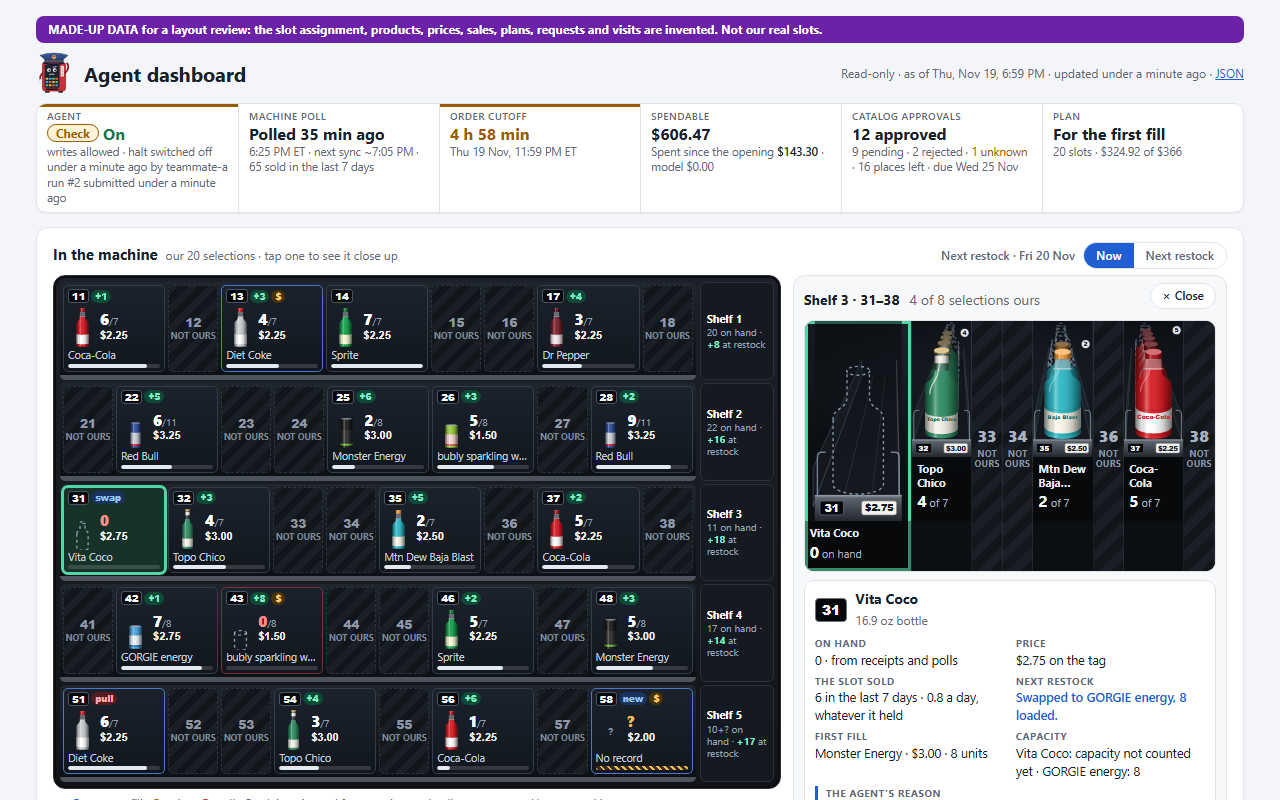
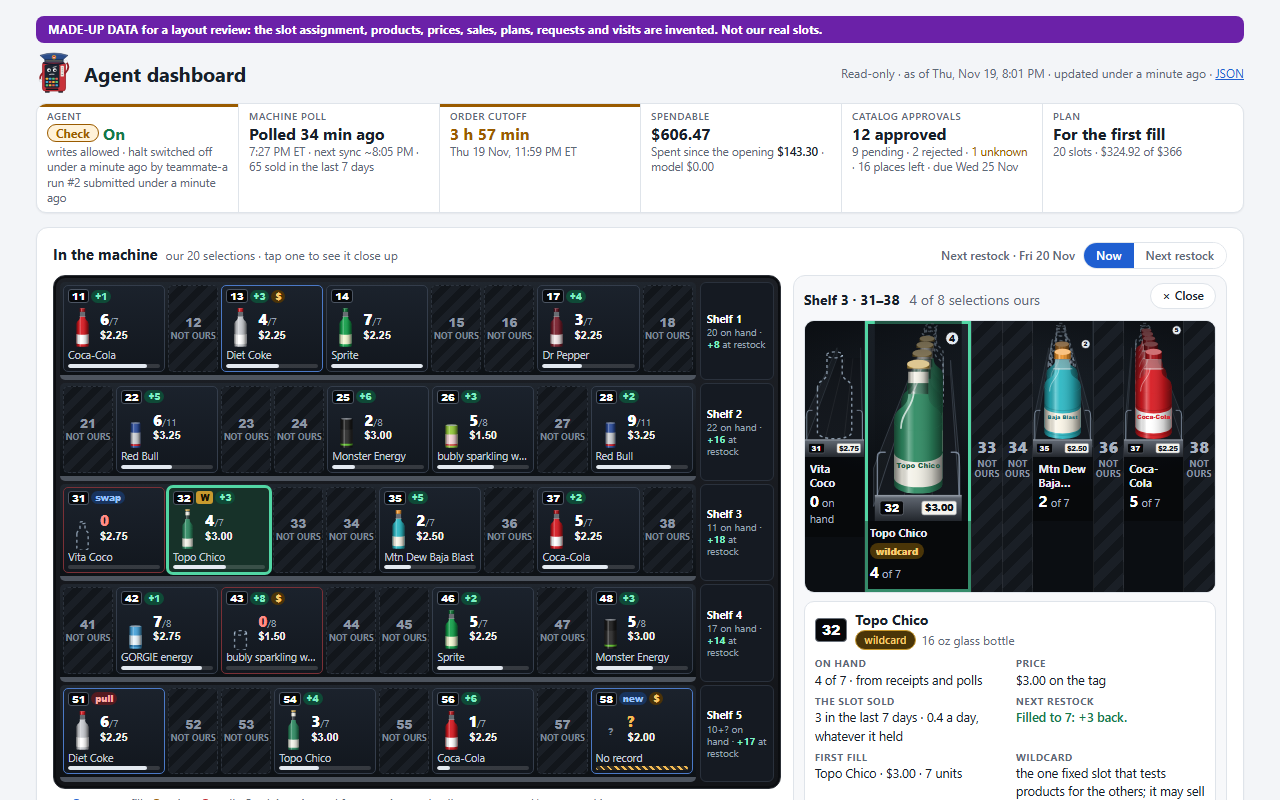
Dashboard: mark the wildcard slot in the machine view and the plan rows
dashboard didn't show it. The snapshot now reads it and keeps it only
when the stored assignment makes it ours, so a wildcard that isn't ours
is never marked. Ours shows a W badge on the front, a "wildcard" chip on
its lane, a pill and a Wildcard line in its facts, and a pill on its rows
in the plan's changes and The plan. The aria label says it too. Docs and
the doc pictures (made-up, with a made-up wildcard) updated.

diff --git a/vending/dashboard.py b/vending/dashboard.py
@@ -112,6 +112,8 @@ SYNC_AT_MINUTE = 5
 APPROVALS_DUE = datetime(2026, 11, 26, 5, 0, tzinfo=timezone.utc)
 # The machine's face: 5 shelves of 8 selections. Row r, column c is selection "rc".
 SHELVES, COLUMNS = machine_art.SHELVES, machine_art.COLUMNS
+# The mark on the wildcard slot's rows (#166): the one fixed slot that tests products.
+WILD = machine_art.WILD_PILL
 # What a free-text product name says about its package, for a lane named by a count.
 _package = machine_art.package_from_name
 
@@ -265,6 +267,14 @@ def _our_slots(conn: psycopg.Connection) -> dict:
         return {"ok": False, "why": f"{error}. Run `python -m vending.db migrate` on this database."}
     except SlotsNotRecorded as error:
         return {"ok": False, "why": str(error)}
+
+
+def _wildcard(conn: psycopg.Connection, ours: tuple[str, ...]) -> str | None:
+    """The wildcard slot (config `wildcard_slot`, set once, #166), when it is one of ours; else None.
+    A wildcard the stored assignment doesn't give us is never marked."""
+    row = _optional(conn, "select value from config where key = 'wildcard_slot'")
+    value = row["value"] if row else None
+    return value if isinstance(value, str) and value in ours else None
 
 
 def our_selections(snap: dict) -> tuple[str, ...]:
@@ -837,6 +847,7 @@ def _snapshot(conn: psycopg.Connection, now: datetime) -> tuple[dict, datetime |
     snap = {
         "as_of": now,
         "ours": ours,
+        "wildcard": _wildcard(conn, slots),
         "status": _status(conn, now, live_since),
         "plan": _panel(lambda: _plan(conn, slots, now, assignment_at)),
         "runs": _panel(lambda: _runs(conn, now, _tags(conn, now), slots)),
@@ -1293,7 +1304,7 @@ def machine_view(snap: dict) -> dict:
                           else ["dropped"])
                 change = {"labels": labels, "kind": _change_kind(labels), "reason": (entry or {}).get("reason")}
         out[slot] = {"now": now, "next": nxt, "change": change, "fill_to": _fill(entry),
-                     "reason": (entry or {}).get("reason")}
+                     "reason": (entry or {}).get("reason"), "wildcard": slot == snap.get("wildcard")}
     return out
 
 
@@ -1331,7 +1342,9 @@ def _changes_html(snap: dict, view: dict) -> str:
         else:
             title += f' <span class="hint">{"picked plan" if p["picked"] else "latest, not picked"}</span>'
             rows = "".join(
-                "<li>" + _pick(row["slot"], f'<b>{_e(row["slot"])}</b><span>{_e(row["product"] or "no product")} '
+                "<li>" + _pick(row["slot"], f'<b>{_e(row["slot"])}</b><span>'
+                                            + (f"{WILD} " if row["slot"] == snap.get("wildcard") else "")
+                                            + f'{_e(row["product"] or "no product")} '
                                             f'&middot; {plan_rounds.format_cents(row["price_cents"])} &middot; '
                                             f'{_plural(row["units"], "unit")}</span>', view) + "</li>"
                 for row in p["slots"])
@@ -1352,6 +1365,7 @@ def _changes_html(snap: dict, view: dict) -> str:
                   for s in p["slots"] if s["changed"] and s["slot"] not in view]
         rows = "".join(
             "<li>" + _pick(slot, f'<span class="dotk {c["kind"]}"></span><b>{_e(slot)}</b><span>{_e(", ".join(c["labels"]))}'
+                                 + (f" {WILD}" if slot == snap.get("wildcard") else "")
                                  + (f'<span class="why">{_e(c["reason"])}</span>' if c["reason"] else "") + "</span>",
                            view) + "</li>"
             for slot, c in items)
@@ -1441,12 +1455,14 @@ def _cabinet_html(snap: dict, items: list[dict] | None = None) -> str:
             f'<div class="ops-side">{home}{panel}</div></div>{scrim}</section>')
 
 
-def _slot_num(slot: str) -> str:
-    """A plan row's slot number. One on the machine's face is a link that picks it in the close-up."""
+def _slot_num(slot: str, wildcard: str | None = None) -> str:
+    """A plan row's slot number. One on the machine's face is a link that picks it in the close-up;
+    the wildcard's says so."""
+    mark = f" {WILD}" if slot == wildcard else ""
     if re.fullmatch(rf"[1-{SHELVES}][1-{COLUMNS}]", slot):
         return (f'<a class="num" href="#sel-{_e(slot)}" data-sel="{_e(slot)}" '
-                f'aria-label="Selection {_e(slot)}: show it in the machine">{_e(slot)}</a>')
-    return f'<b class="num">{_e(slot)}</b>'
+                f'aria-label="Selection {_e(slot)}: show it in the machine">{_e(slot)}</a>{mark}')
+    return f'<b class="num">{_e(slot)}</b>{mark}'
 
 
 def _fill_check_html(check: str, reason: str | None) -> str:
@@ -1456,7 +1472,7 @@ def _fill_check_html(check: str, reason: str | None) -> str:
 
 
 def _plan_cell(s: dict, compared: bool, sold: dict | None, held: dict | None,
-               window: str = "the window") -> str:
+               window: str = "the window", wildcard: str | None = None) -> str:
     """One slot of the plan as a <details>: what it asks for in the summary; the reason, what it was
     and what the slot holds and sold inside."""
     slot, entry, changed = s["slot"], s["now"], compared and s["changed"]
@@ -1503,7 +1519,7 @@ def _plan_cell(s: dict, compared: bool, sold: dict | None, held: dict | None,
     if on_hand is not None:
         now_bits.append(f"{on_hand} left")
     return (f'<details class="pc{" changed" if changed else ""}" id="slot-{_e(slot)}" data-key="slot-{_e(slot)}">'
-            f'<summary>{_slot_num(slot)}<span class="now">{" &middot; ".join(now_bits)}</span>'
+            f'<summary>{_slot_num(slot, wildcard)}<span class="now">{" &middot; ".join(now_bits)}</span>'
             f'<span class="what">{what}</span><span class="tags">{tags}</span></summary>{"".join(body)}</details>')
 
 
@@ -1542,14 +1558,15 @@ def _plan_html(snap: dict) -> str:
         controls = (f'<div class="chips">{chips}</div>'
                     '<label class="only" hidden><input type="checkbox" id="changed-only"> '
                     'Show changed slots only</label>')
-    cells = "".join(_plan_cell(s, bool(p["previous_run"]), sold.get(s["slot"]), held.get(s["slot"]), _window(sales))
+    cells = "".join(_plan_cell(s, bool(p["previous_run"]), sold.get(s["slot"]), held.get(s["slot"]), _window(sales),
+                               snap.get("wildcard"))
                     for s in p["slots"])
     columns = ('<div class="plan-head" aria-hidden="true"><span>Slot</span><span>Now</span>'
                '<span>Next restock</span><span></span></div>')
     return head + controls + f'<div class="plan-grid" data-only="false">{columns}{cells}</div>'
 
 
-def _first_fill_cell(row: dict) -> str:
+def _first_fill_cell(row: dict, wildcard: str | None = None) -> str:
     slot, checks = row["slot"], row["checks"]
     check, reason = row.get("fill_check"), row["reason"]
     fill_note = _fill_check_html(check, reason) if check else ""
@@ -1567,7 +1584,7 @@ def _first_fill_cell(row: dict) -> str:
                 price, f"Capacity {cap}", f"Fill cost share {cost}"]
     problems = "".join(f'<div class="sub">{_e(reason)}</div>' for reason in checks["refusals"])
     return (f'<details class="pc" id="slot-{_e(slot)}" data-key="slot-{_e(slot)}">'
-            f'<summary>{_slot_num(slot)}<span class="what">{_e(row["product"])}'
+            f'<summary>{_slot_num(slot, wildcard)}<span class="what">{_e(row["product"])}'
             f' &middot; {plan_rounds.format_cents(row["price_cents"])}'
             f' &middot; {_plural(row["units"], "unit")}{fill_note}</span></summary>{reason_detail}'
             f'<div class="was"><span class="label">Code checks</span>'
@@ -1598,7 +1615,7 @@ def _plan_section(snap: dict) -> str:
             cost = (f"{plan_rounds.format_cents(expected)} expected, {plan_rounds.format_cents(maximum)} at most"
                     if expected is not None and maximum is not None else "unknown")
             hint += f" &middot; Fill cost {cost} against the proposed {cap} cap"
-            cells = "".join(_first_fill_cell(row) for row in p["slots"])
+            cells = "".join(_first_fill_cell(row, snap.get("wildcard")) for row in p["slots"])
             body = f'<div class="plan-grid first-fill">{cells}</div>'
     return ('<section id="plan"><h2>Plan for the first fill (stocked ~30 Nov) '
             f'<span class="hint">{hint}</span></h2>{body}</section>')
@@ -2217,6 +2234,7 @@ details.more > summary { cursor:pointer; color:var(--muted); font-size:12px; mar
 .vm-legend { font-size:12px; color:var(--muted) } .vm-legend p { margin:6px 0 0 }
 .vm-legend > summary .dotk { margin-left:6px } .vm-legend .honest { margin:0 } .vm-legend .more { text-decoration:underline }
 .pc summary a.num { font-weight:700; color:var(--accent) }
+.pill.wild { background:#4a3508; color:#f8cd75; border:1px solid #c99a2e } a.chg .pill.wild { margin-left:4px } .sd-t .pill.wild { margin-right:6px }
 /* The plan: one line per slot; the reason opens beneath. */
 .only { display:inline-flex; gap:6px; align-items:center; font-size:12px; margin:4px 0 8px; cursor:pointer }
 .only[hidden] { display:none }

diff --git a/vending/machine_art.py b/vending/machine_art.py
@@ -38,6 +38,9 @@ from typing import Any
 from vending import capacity, config
 
 SHELVES, COLUMNS = 5, 8
+# The mark on the wildcard slot (#166, config `wildcard_slot`): the one fixed slot that tests products.
+WILD_TITLE = "The wildcard: the one fixed slot that tests products and may sell above the regular ceiling"
+WILD_PILL = f'<span class="pill wild" title="{WILD_TITLE}">wildcard</span>'
 
 # --- Package shapes -------------------------------------------------------------------------------
 # d = body diameter (or width), h = overall height, in mm. Bottles add body, shoulder, neck and
@@ -489,6 +492,7 @@ class Lane:
     def __init__(self, slot: str, view: dict, products: dict | None):
         now, nxt = view["now"], view["next"]
         self.slot, self.view, self.change = slot, view, view.get("change")
+        self.wildcard = bool(view.get("wildcard"))
         self.shelf, self.col = (int(slot[0]), int(slot[1])) if len(slot) == 2 and slot.isdigit() else (0, 0)
         self.source = now["source"]
         self.counted = self.source in ("photo", "door")
@@ -541,7 +545,7 @@ class Lane:
         return f"<b>{shown}</b>{tail}"
 
     def aria(self) -> str:
-        parts = [f"Selection {self.slot}"]
+        parts = [f"Selection {self.slot}" + (", the wildcard" if self.wildcard else "")]
         item = self.now_item
         if self.counted_empty:
             parts.append("counted empty")
@@ -836,10 +840,11 @@ def lane_card(lane: Lane, prev: str | None, nxt_slot: str | None, linked: bool) 
                + (f'<a href="#lane-{_e(nxt_slot)}" data-lane="{_e(nxt_slot)}" aria-label="Next lane, selection '
                   f'{_e(nxt_slot)}">&rsaquo;</a>' if nxt_slot else '<span></span>') + '</div>')
     plan_link = (f'<a class="ma-plan" href="#slot-{_e(lane.slot)}">plan row</a>' if linked else "")
-    classes = ["ma-lane"] + (["ma-changed"] if lane.change else [])
+    classes = ["ma-lane"] + (["ma-changed"] if lane.change else []) + (["ma-wild"] if lane.wildcard else [])
     return (f'<article class="{" ".join(classes)}" id="lane-{_e(lane.slot)}" role="group" '
             f'aria-label="{_e(lane.aria())}">{nav}{lane_svg(lane)}<div class="ma-meta">{head_now}{head_next}'
-            f'<p class="ma-ct"><span class="v-now">{now_count}</span><span class="v-next">{next_count}</span></p>'
+            + (f'<p class="ma-wl" title="{WILD_TITLE}">wildcard</p>' if lane.wildcard else "")
+            + f'<p class="ma-ct"><span class="v-now">{now_count}</span><span class="v-next">{next_count}</span></p>'
             f'<p class="ma-chips"><span class="v-now">{now_chip}</span><span class="v-next">{next_chip}</span></p>'
             + (f'<div class="v-now">{"".join(notes_now)}</div>' if notes_now else "")
             + (f'<div class="v-next">{"".join(notes_next)}</div>' if notes_next else "")
@@ -945,10 +950,12 @@ def front_cell(lane: Lane) -> str:
     bar = (f'<span class="fc-g{tone}">' + _gauge(lane.units, now_size, "v-now")
            + (_gauge(after_units, next_size, "v-next fri") if planned else _gauge(lane.units, now_size, "v-next"))
            + "</span>")
-    classes = "fc" + (" fc-chg" if lane.change else "") + (" fc-zero" if lane.units == 0 else "")
+    classes = ("fc" + (" fc-chg" if lane.change else "") + (" fc-zero" if lane.units == 0 else "")
+               + (" fc-wild" if lane.wildcard else ""))
+    wild = f'<span class="fc-w" title="{WILD_TITLE}">W</span>' if lane.wildcard else ""
     return (f'<a class="{classes}" href="#sel-{_e(lane.slot)}" data-sel="{_e(lane.slot)}" '
             f'aria-label="{_e(lane.aria())} Opens its close-up.">'
-            f'<span class="fc-top"><span class="fc-n">{_e(lane.slot)}</span>{_front_marks(lane)}</span>'
+            f'<span class="fc-top"><span class="fc-n">{_e(lane.slot)}</span>{wild}{_front_marks(lane)}</span>'
             f'<span class="fc-mid">{_front_art(lane, after_item, after_units)}<span class="fc-st">{counts}{price}'
             f'</span></span>{names}{bar}</a>')
 
@@ -1047,6 +1054,9 @@ def detail_html(lane: Lane, sold: Mapping | None, span: str, linked: bool, first
             ("Next restock", f'<span class="sd-fr {tone}">{restock}</span>' if tone else restock)]
     if first:
         rows.append(("First fill", _e(first["text"])))
+    if lane.wildcard:
+        rows.append(("Wildcard", "the one fixed slot that tests products for the others; it may sell above the "
+                                 "regular ceiling (config <code>wildcard_slot</code>)"))
     caps = []
     for it, cap in ((item, lane.cap), (lane.next_item if lane.next_item is not item else None, lane.next_cap)):
         if it is not None and cap is None:
@@ -1069,7 +1079,8 @@ def detail_html(lane: Lane, sold: Mapping | None, span: str, linked: bool, first
     detail = f"<small>{_e(item.detail)}</small>" if item is not None and item.detail else ""
     return (f'<div class="sd" id="sel-{_e(lane.slot)}" data-sel="{_e(lane.slot)}" tabindex="-1">'
             f'<div class="sd-art" aria-hidden="true"></div><div class="sd-body">'
-            f'<div class="sd-h"><span class="sd-n">{_e(lane.slot)}</span><div class="sd-t"><b>{_e(name)}</b>{detail}'
+            f'<div class="sd-h"><span class="sd-n">{_e(lane.slot)}</span><div class="sd-t"><b>{_e(name)}</b>'
+            f'{" " + WILD_PILL if lane.wildcard else ""}{detail}'
             f'</div>{plan_link}</div><dl class="sd-g">{grid}</dl>{why}</div></div>')
 
 
@@ -1163,6 +1174,10 @@ a.fc:hover { border-color:#7d8896; background:#1c2635 } a.fc:focus-visible { out
 .fc-mk.info { background:#18345e; color:#9cc3ff } .fc-mk.warn { background:#4b3309; color:#f7c96b }
 .fc-mk.bad { background:#541b20; color:#ffb0a8 } .fc-mk.fri { background:#0f4a37; color:#7ff0c4 }
 .fc-mk.unk { background:#4a3508; color:#f8cd75 }
+.fc-wild { border-color:#c99a2e; border-style:dashed } .fc-w { font:800 9px/1 Arial, sans-serif; padding:2px 4px; border-radius:3px;
+  background:#c99a2e; color:#1b1404 }
+.ma-wl { margin:2px 0 0; display:inline-block; font-size:10px; font-weight:800; padding:1px 6px; border-radius:999px;
+  background:#4a3508; color:#f8cd75 } .ma-wild { box-shadow:inset 0 -3px 0 #c99a2e }
 .fc-mid { display:flex; align-items:center; gap:3px; min-height:44px }
 .fc-art { flex:none; display:block; width:29px; height:44px }
 .fc-st { display:flex; flex-direction:column; gap:1px; min-width:0 }

diff --git a/tests/test_dashboard.py b/tests/test_dashboard.py
@@ -1624,3 +1624,42 @@ def test_the_page_says_next_restock_for_what_the_plan_does_and_friday_only_for_t
     machine = page[page.index('<section id="vm"'):page.index('<section id="money"')]
     assert "Friday" not in re.sub(r"<[^>]+>", " ", machine).replace("free Friday visit", "")
     assert "Friday" not in dashboard._status_bar(snap)
+
+
+def _set_wildcard(conn, slot: str) -> None:
+    from psycopg.types.json import Jsonb
+    conn.execute("insert into config (key, value, updated_by) values ('wildcard_slot', %s, 'test')"
+                 " on conflict (key) do update set value = excluded.value", (Jsonb(slot),))
+
+
+def test_the_wildcard_slot_is_marked_on_the_front_the_close_up_and_the_plan(conn, page_conn):
+    _set_wildcard(conn, "37")
+    first = agent_runs.start(conn, mode="live")
+    agent_runs.finish(conn, first, "submitted", plan=plan({"slot": "37", "fill_to": 4}, {"slot": "15", "fill_to": 4}))
+    second = agent_runs.start(conn, mode="live")
+    agent_runs.finish(conn, second, "submitted", plan=plan({"slot": "37", "fill_to": 6, "sale_price": "7.50"},
+                                                           {"slot": "15", "fill_to": 4}))
+    snap = dashboard.snapshot(page_conn, MONDAY, public=True)
+    assert snap["wildcard"] == "37" and '"wildcard": "37"' in dashboard.to_json(snap)
+    page = dashboard.render(snap)
+    cell = section(front_of(page), 'href="#sel-37"', "</a>")
+    assert "fc-wild" in page.split('href="#sel-37"')[0][-40:] and '>W</span>' in cell
+    assert "Selection 37, the wildcard." in page
+    assert '<p class="ma-wl"' in lane_html(page, "37") and 'class="ma-lane ma-changed ma-wild"' in page
+    facts = section(page, '<div class="sd" id="sel-37"', '<div class="sd" id="sel-38"')
+    assert "<dt>Wildcard</dt>" in facts and ">wildcard</span>" in facts
+    changes = section(page, '<a class="chg" href="#sel-37"', "</a>")
+    assert ">wildcard</span>" in changes
+    rows = section(page, '<section id="plan">', "</section>")
+    assert re.search(r'data-sel="37"[^>]*>37</a> <span class="pill wild"', rows)
+    # Only the one slot: no other selection carries the mark.
+    assert page.count('class="fc fc-wild"') + page.count('fc-chg fc-wild"') == 1 and page.count("<dt>Wildcard</dt>") == 1
+
+
+def test_a_wildcard_that_is_not_ours_is_never_marked(conn, page_conn, even_columns):
+    _set_wildcard(conn, "37")                    # 37 isn't in the stored assignment here
+    snap = dashboard.snapshot(page_conn, MONDAY, public=True)
+    page = dashboard.render(snap)
+    assert snap["wildcard"] is None and ' fc-wild"' not in page and 'class="ma-wl"' not in page
+    assert "<dt>Wildcard</dt>" not in page and ">wildcard</span>" not in page
+    assert 'data-sel="37"' not in page

diff --git a/docs/dashboard.md b/docs/dashboard.md
@@ -31,7 +31,7 @@ what changed and why.
 | Part | What's in it | Where it comes from |
 |---|---|---|
 | Status bar | One row of six cells, each a link to its section. **Agent:** the verdict (**OK**, **Check** or **Problem**, from the worst item in Needs attention; the browser tab shows it too), the halt switch and who last changed it, and the latest run. **Machine poll:** how long ago the last poll was taken, its time in Eastern, when the worker's next sync should read the machine (the worker's own `next_round_at` when it serves the page, else `SYNC_AT_MINUTE` past the hour), and what our slots sold in the 7 days to that poll. The window's start date isn't shown: it read like an update time. **Order cutoff:** a countdown to Thursday 23:59 Eastern. **Spendable:** from the ledger once its opening entry is in the past, with what has been spent since the opening; before that, what has been spent on drinks and the model, labelled development and test spend, not from the \$600. **Catalog approvals:** approved, pending, rejected, any `sending` or `unknown`, the places left under the bridge's cap, and the 25 Nov deadline until it passes. **Plan:** before the slot lock, the plan for the first fill (its slots and its most-we-pay cost against the proposed \$366 cap); from the lock, the plan for the next restock: "For the next restock · Fri 4 Dec · 2 changes", or "midweek visit" for a paid off-cycle visit, which the plan records without a date. Almost every restock is the free Friday visit, the Friday after the Thursday cutoff that follows the plan's run; a paid \$25 midweek visit is a restock too, and either can change anything. On a phone the six cells wrap to two columns | `config`, `agent_runs`, `polls`, `purchase_requests`, `vending.ledger`, `product_requests`, `first_fill_plans` |
-| In the machine | One screen. On the left, the machine's whole front: 5 shelves of 8 (row r, column c is selection "rc"). Which selections are ours comes only from the stored assignment (`vending.slots.our_slots`, kept by `python -m vending.slots record`), read on every page; with none stored the section says so and draws nothing. Each of ours shows its number, a next-restock badge (+N back, swap, new, \$ for a new price, pull), its front package, units against capacity, the tag price, the product name and a fill bar. Every other selection is a grey cell half as wide with its number and "Not ours", and nothing else about it is in the page or `/state.json`. Beside each shelf, what our lanes on it hold and what the next restock adds. On the right, **Needs attention** and the plan's changes (before the lock, each line of the plan for the first fill; after it, each slot the latest plan changed, with the agent's reason). Tap one of ours on the front, a row of the plan's changes, or a slot number in The plan, and the right side shows that selection's shelf from above instead, with the picked lane wider and not-ours lanes half width, and its facts: on hand, price, what the slot sold, the next restock, the first fill, capacity and the agent's whole reason, each saying where it comes from ("from receipts and polls", "unknown: no price from the polls"). **Close** (or Escape) goes back to Needs attention. **Now** is the tag price from the latest poll and the product and units on hand from the receipts, or from a person's count where the receipts don't know the slot or the count is newer (see below). **Next restock** is the latest plan (the toggle's hint gives its date: "Next restock · Fri 4 Dec", or "midweek visit"): the empty slots fill in, a swap draws the new product's package and colours, a pull empties the lane, and a new price shows the old one struck through | `vending.stock` (receipts and polls), `get_machine_state` (polls), `agent_runs`, `first_fill_plans`, `catalog_products`, `config.capacity_overrides` |
+| In the machine | One screen. On the left, the machine's whole front: 5 shelves of 8 (row r, column c is selection "rc"). Which selections are ours comes only from the stored assignment (`vending.slots.our_slots`, kept by `python -m vending.slots record`), read on every page; with none stored the section says so and draws nothing. Each of ours shows its number, a next-restock badge (+N back, swap, new, \$ for a new price, pull), its front package, units against capacity, the tag price, the product name and a fill bar. Every other selection is a grey cell half as wide with its number and "Not ours", and nothing else about it is in the page or `/state.json`. Beside each shelf, what our lanes on it hold and what the next restock adds. On the right, **Needs attention** and the plan's changes (before the lock, each line of the plan for the first fill; after it, each slot the latest plan changed, with the agent's reason). Tap one of ours on the front, a row of the plan's changes, or a slot number in The plan, and the right side shows that selection's shelf from above instead, with the picked lane wider and not-ours lanes half width, and its facts: on hand, price, what the slot sold, the next restock, the first fill, capacity and the agent's whole reason, each saying where it comes from ("from receipts and polls", "unknown: no price from the polls"). **Close** (or Escape) goes back to Needs attention. The wildcard slot (config `wildcard_slot`, #166) is marked only when the stored assignment makes it ours: a **W** badge on the front, a "wildcard" chip on its lane, a Wildcard line in its facts, and a pill on its rows in the plan's changes and The plan. **Now** is the tag price from the latest poll and the product and units on hand from the receipts, or from a person's count where the receipts don't know the slot or the count is newer (see below). **Next restock** is the latest plan (the toggle's hint gives its date: "Next restock · Fri 4 Dec", or "midweek visit"): the empty slots fill in, a swap draws the new product's package and colours, a pull empties the lane, and a new price shows the old one struck through | `vending.stock` (receipts and polls), `get_machine_state` (polls), `agent_runs`, `first_fill_plans`, `catalog_products`, `config.capacity_overrides` |
 | Pricing | One row per selection of ours (the stored assignment, nothing else). **Now** is the shelf price from the latest poll. **Unit cost** is what the units in the slot cost, from the receipts; with no receipt cost it is the primary sourcing option's pack price over the pack size, labelled **expected** (the product is the receipts', else the plan's). **Floor** is the pricing gate's, as the planner sets it for a restock: the highest of the receipt cost's floor and each sourcing option's floor at its most-we-pay price (`pricing.floor_cents`, `pack_floor_cents`); hover it for the parts. **Legal** is `pricing.check_price` against that floor and the selection's ceiling, the planner's (`planner.Config.ceiling_for`: \$6.50, or \$8.00 for the one wildcard selection, #166); with no cost known the floor is unknown, and only the 5-cent step and the ceiling are checked. A price that isn't legal shades the row and says why. **Margin** is what one sale keeps after the sales tax inside the price, less the unit cost. **Sold** is units in the last 7 days and per class day (own rate, or the fall prior until the slot has 5 in-stock class days). **Plan** follows the plan that "The plan" shows: before the slot lock, the first-fill plan's price (marked **first fill**); from the lock, the agent's weekly plan. It shows the new price and the reason, checked the same way against the floor of the product that plan puts in (its sourcing rows, else the first-fill plan's own floor). A plan entry of an unexpected shape gives that row no plan price. The line is the shelf price at every poll over the last 28 days, a dot at each change; a change shows at the poll that first saw it | polls (`get_machine_state`, `machine_state.price_history`), `vending.stock`, `sourcing_options`, `config`, `agent_runs` |
 | Needs attention | Beside the machine, never cut short. One sentence per thing a person should look at, worst first. **Problem:** the latest run failed, or has said `running` for over 2 hours; on the Container App, a job in the worker's latest hourly sync didn't exit 0 (see [Sync health](#sync-health)). **Check:** refused or failed tool calls in the last 24 hours; polls over 3 hours old; a catalog request stuck in `sending` or `unknown`; the latest purchase request rejected; and within 24 hours of the cutoff, still halted or no Friday request sent. **Info** (doesn't change the verdict): halted, no polls yet, stock warnings from the receipts, a panel whose table is missing | the snapshot, and the worker's latest sync |
 | The plan | Before the slot lock, the plan for the first fill. Each line shows the product, price and units. Open it for the agent's reason and the code's checks. The header compares the fill cost with the proposed $366 cap. The page shows the picked plan or labels the latest one "latest, not picked". A plan for an earlier assignment shows a message with no slots. From the lock, the agent's plan for the next restock shows its slot changes, reasons, weekly update and notes; each line also says what the slot sold in the 7 days to the last poll. That count is the slot's, not the product's: a swap at a visit inside the window adds the old product's sales (#172), and the page says so. | `first_fill_plans` before the lock, then `agent_runs`, `vending.stock` and `get_machine_state` |
@@ -45,12 +45,12 @@ what changed and why.
 
 ### The machine close-up
 
-![In the machine with selection 31 picked, dark theme](dashboard/machine-closeup-dark.png)
+![In the machine with selection 32 picked, dark theme](dashboard/machine-closeup-dark.png)
 
 | | |
 |---|---|
 | ![Light theme](dashboard/machine-closeup-light.png) | ![Next restock](dashboard/machine-closeup-next-friday.png) |
-| Light theme, before the slot lock: 31 picked | After the lock, Next restock: a swap (31), new prices (13, 43, 58), a pull (51) |
+| Light theme, before the slot lock: 32, the made-up wildcard, picked | After the lock, Next restock: a swap (31), new prices (13, 43, 58), a pull (51) |
 
 ![A 390 px phone, with the close-up open as a sheet](dashboard/machine-closeup-phone-390.png)
 
